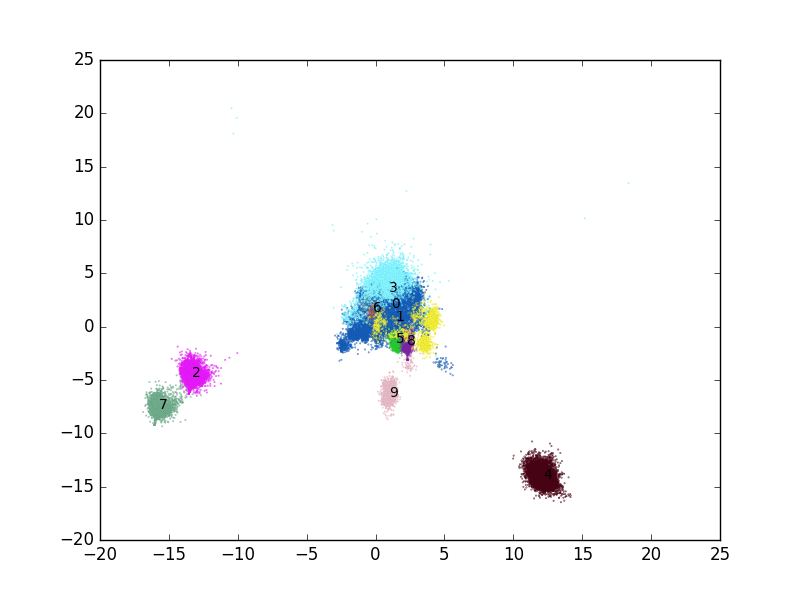
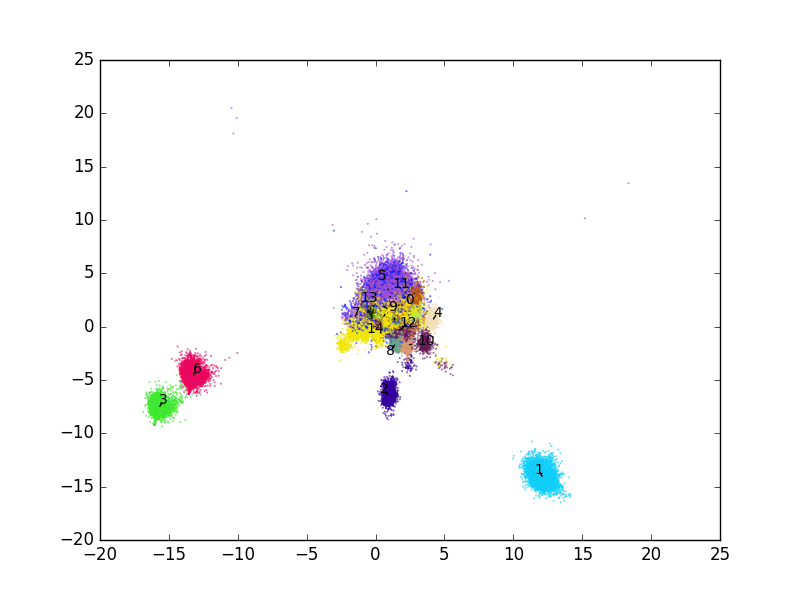
Improvements to subclass offset plotting.

Changed region(s): [[0.4062, 0.39, 0.5625, 0.69], [0.1562, 0.57, 0.2812, 0.72], [0.625, 0.75, 0.7188, 0.84]]

diff --git a/scripts/embedding_analysis/analyze_plot_subclass_offset_clusters.py b/scripts/embedding_analysis/analyze_plot_subclass_offset_clusters.py
@@ -5,6 +5,7 @@ from itertools import groupby
 
 import matplotlib.pyplot as plt
 import numpy as np
+from adjustText import adjust_text
 from sklearn.cluster import KMeans
 from sklearn.decomposition import PCA
 
@@ -45,12 +46,14 @@ def main():
     plot_output = paths_config['subclass offset plot']
     result_path = paths_config['subclass offset cluster']
 
-    n_clusters = 10
+    n_clusters = 15
     max_labeled_pairs = 50
 
     offsets = list()
     ids = list()
     c_offset = 0
+    result = dict()
+    result['plot'] = plot_output
 
     with open(offsets_path) as f:
         for subclass, superclass, offset in map(lambda s: s.strip().split(';'), f):
@@ -80,14 +83,15 @@ def main():
     for i in range(n_clusters):
         colors.append(generate_new_color(colors, pastel_factor=0))
 
+    result['colors'] = colors
+
     logging.log(level=logging.INFO, msg='create plot with {} points'.format(c_offset))
     plt.scatter(xs, ys, s=0.1, edgecolors=[colors[cluster] for cluster in clusters])
-    for c in range(n_clusters):
-        plt.text(c_xs[c], c_ys[c], str(c), fontsize='smaller')
+
+    adjust_text([plt.text(c_xs[c], c_ys[c], str(c), fontsize='smaller') for c in range(n_clusters)],
+                arrowprops=dict(arrowstyle="-", color='#000000'))
     logging.log(level=logging.INFO, msg='save plot to {}'.format(plot_output))
     plt.savefig(plot_output)
-
-    result = dict()
 
     # get number of pairs in each cluster
     result['counts'] = [len(list(group)) for key, group in groupby(sorted(clusters.tolist()))]
